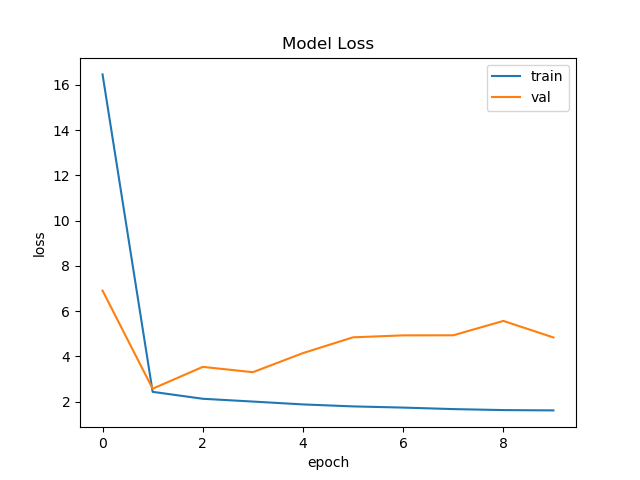
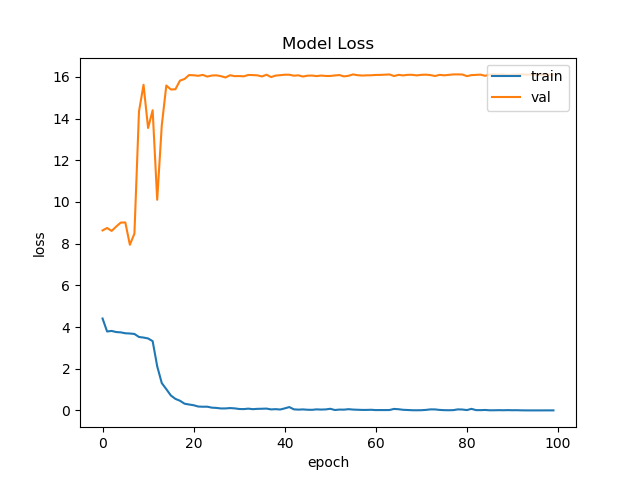
update arch

diff --git a/src/utils/models.py b/src/utils/models.py
@@ -1,10 +1,12 @@
 from tensorflow.keras import Sequential
-from tensorflow.keras.layers import Dense
+from tensorflow.keras.layers import Dense, Dropout
 
 def mlp(input_dim, n_classes):
     model = Sequential()
-    model.add(Dense(32, input_dim=input_dim, activation='relu'))
+    model.add(Dense(128, input_dim=input_dim, activation='relu'))
+    model.add(Dense(64, activation='relu'))
+    model.add(Dense(32, activation='relu'))
     model.add(Dense(16, activation='relu'))
-    model.add(Dense(n_classes, activation='softmax'))
+    model.add(Dense(n_classes, activation='sigmoid'))
     model.compile(loss='categorical_crossentropy', optimizer='adam', metrics=['accuracy'])
     return model

diff --git a/src/utils/pre_process.py b/src/utils/pre_process.py
@@ -12,7 +12,7 @@ def extract_features(signal, sample_rate):
     mfccs = librosa.feature.mfcc(
         y=signal,
         sr=sample_rate,
-        n_mfcc=20,
+        n_mfcc=40,
         hop_length=int(Param.window_stride * sample_rate),
         n_fft=int(Param.window_size * sample_rate)
     )

diff --git a/src/config/param.py b/src/config/param.py
@@ -2,6 +2,6 @@ class Param():
     window_size = 0.025
     window_stride = 0.015
 
-    epoch = 10
+    epoch = 100
     val_split = 0.2
     batch_size = 32
